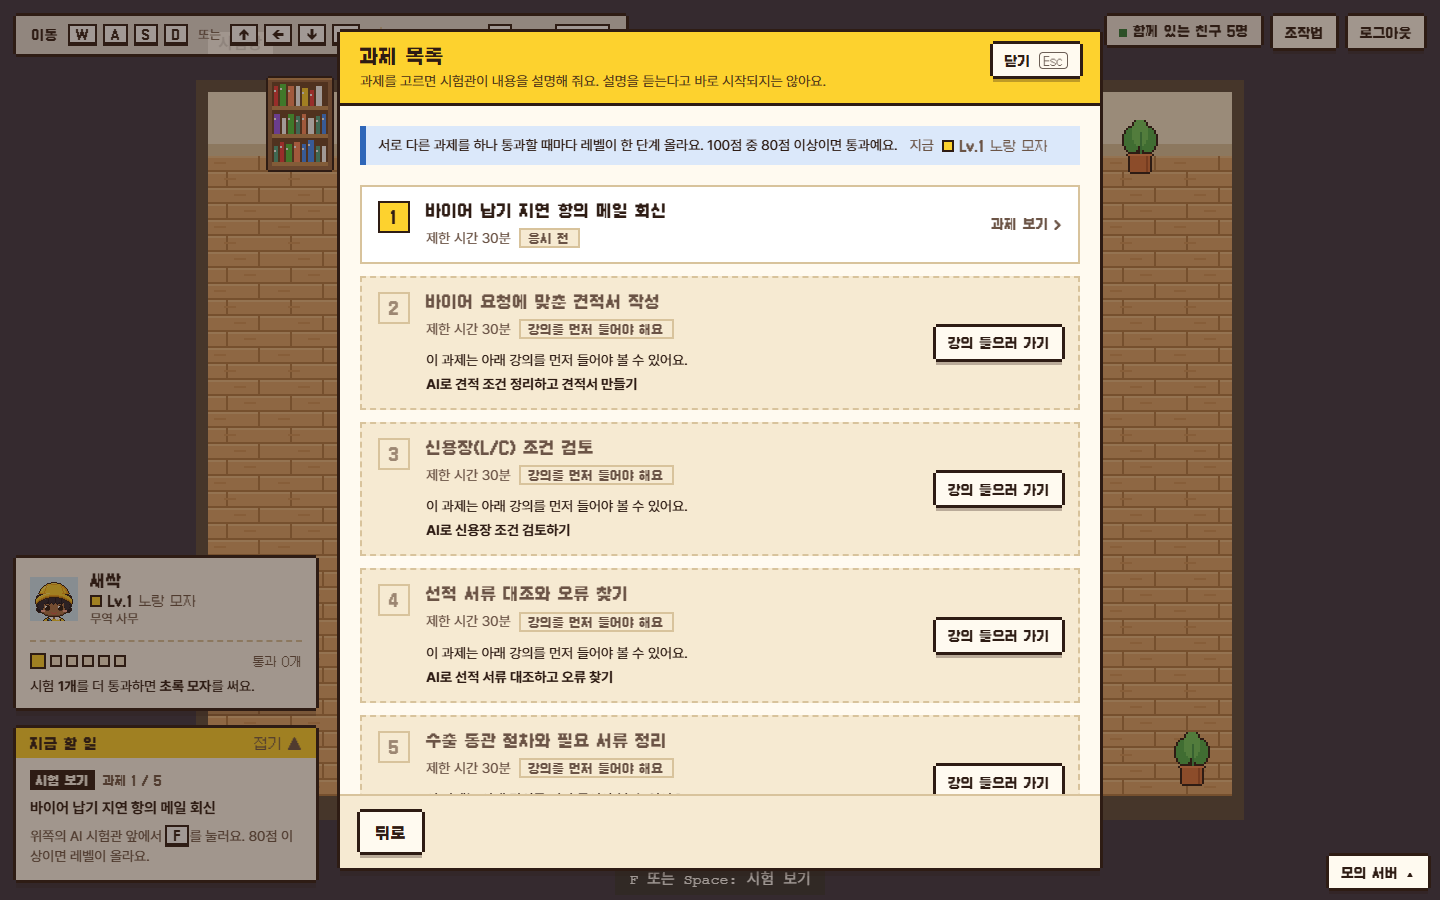
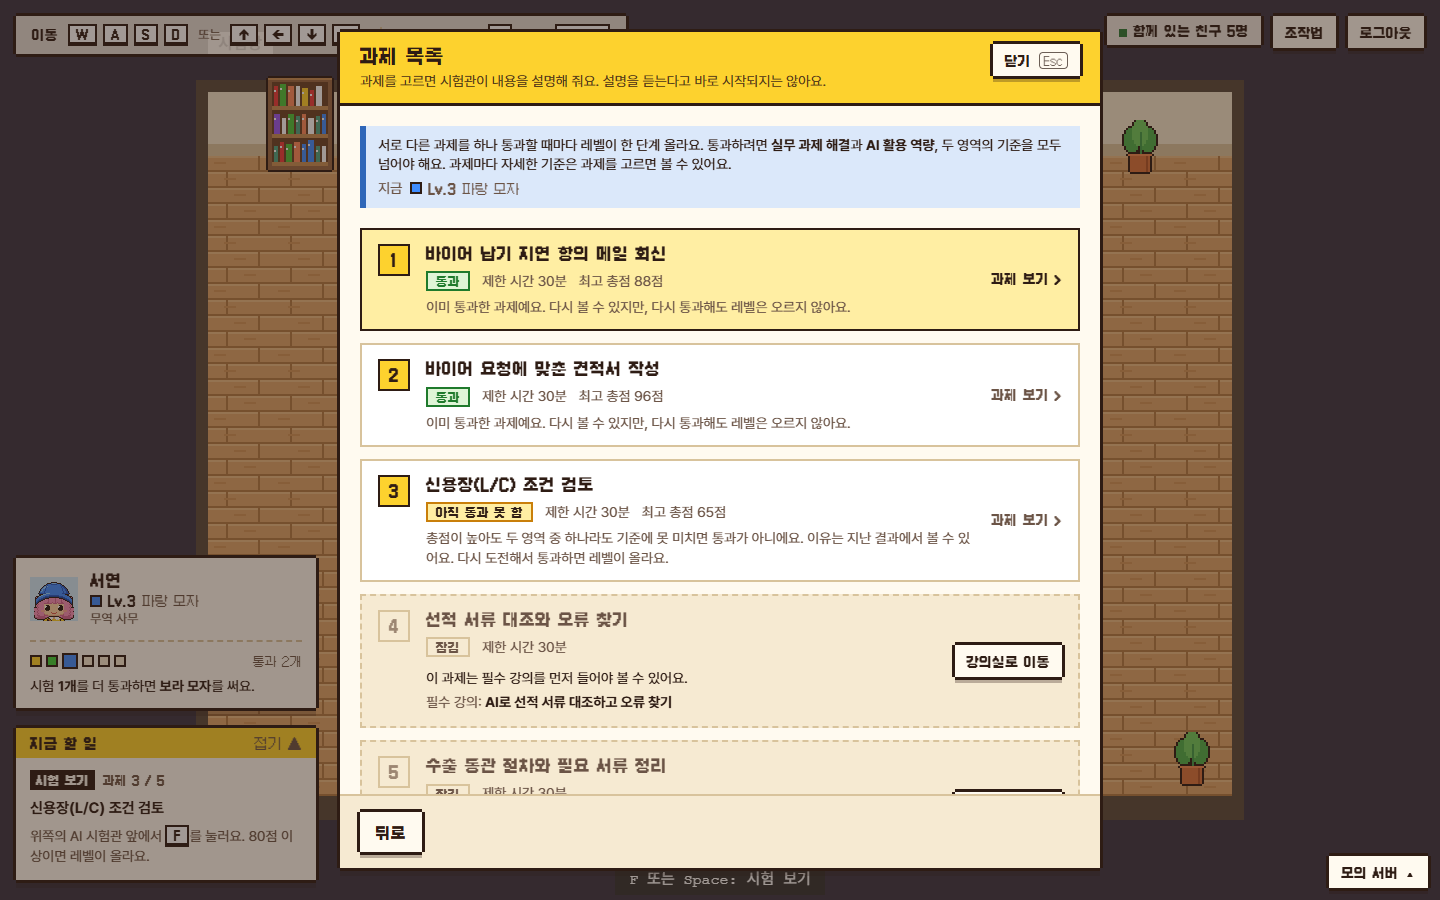
docs: 검증받는 쪽 작업의 판단, 검증 결과, 새 명세와 어긋난 곳 정리

diff --git a/docs/direction/index.html b/docs/direction/index.html
@@ -75,8 +75,8 @@ svg text { font-family: var(--pixel); }
     <p class="lede">픽셀 키트를 화면과 캐릭터에 입히고, 백엔드가 준비되기 전에도 한 바퀴가 돌도록 모의 서버를 붙였습니다. PoC(방향을 확인하려고 작게 만든 시제품)로 방향을 확인받은 뒤, 팀원이 만든 실제 맵 위로 옮겨 완성했습니다. 이 문서는 만들어진 것과 남은 일을 한곳에 정리한 것입니다.</p>
     <ul class="status">
       <li><b>가입부터 레벨업까지</b>실제 맵에서 한 바퀴가 동작</li>
-      <li><b>통과 93 · 실패 0</b>모의 서버 흐름 확인 스크립트</li>
-      <li><b>통과 17 · 실패 0</b>단위 테스트</li>
+      <li><b>통과 119 · 실패 0</b>모의 서버 흐름 확인 스크립트</li>
+      <li><b>통과 181 · 실패 0</b>단위 테스트</li>
       <li><b>빌드 통과</b>타입 오류 0건</li>
     </ul>
     <nav>
@@ -147,12 +147,12 @@ svg text { font-family: var(--pixel); }
       <figcaption><span class="step">9</span><b>시험관에게 말 걸기.</b> 풀던 시험이 있으면 이 화면 대신 "이어 풀기 / 포기하기"가, 나가 있는 동안 자동 제출된 시험이 있으면 "결과 보기"가 먼저 나옵니다.</figcaption>
     </figure>
     <figure>
-      <img src="shots/10-task-list.png" alt="과제 목록. 첫 과제만 고를 수 있고 나머지는 강의를 먼저 들어야 한다는 안내와 강의 들으러 가기 버튼이 있다">
-      <figcaption><span class="step">10</span><b>과제 목록.</b> 막힌 과제는 이유와 함께 그 강의로 바로 가는 버튼을 줍니다. 막다른 길을 만들지 않습니다.</figcaption>
+      <img src="shots/10-task-list.png" alt="과제 목록. 통과한 과제, 아직 통과하지 못한 과제, 잠긴 과제가 꼬리표와 최고 총점과 함께 나열돼 있고, 잠긴 과제에는 강의실로 이동 버튼이 있다">
+      <figcaption><span class="step">10</span><b>과제 목록.</b> 통과 여부는 총점이 아니라 두 영역의 기준으로 정해지므로 꼬리표와 최고 총점을 따로 보여 줍니다. 잠긴 과제는 필수 강의와 "강의실로 이동" 버튼을 줍니다. 막다른 길을 만들지 않습니다.</figcaption>
     </figure>
     <figure class="wide">
-      <img src="shots/11-task-brief.png" alt="과제 안내 창. 상황, 해야 할 일, 제공 자료, 시작 전에 알아 둘 것, 평가 항목 네 개가 있다">
-      <figcaption><span class="step">11</span><b>과제 안내.</b> 시작하면 시간이 바로 흐르고, 나가도 흐르고, 대화와 답안 수정이 기록돼 평가에 쓰인다는 것을 시작 전에 알립니다.</figcaption>
+      <img src="shots/11-task-brief.png" alt="과제 안내 창의 평가 부분. 두 영역을 모두 충족해야 통과라는 통과 기준, 이 과제에서 꼭 지켜야 할 것, 영역별 항목과 배점이 있다">
+      <figcaption><span class="step">11</span><b>과제 안내.</b> 시작 전에 통과 기준을 알립니다. 총점이 높아도 한 영역이 기준에 못 미치면 통과가 아니라는 것, 답변 검증에 최소 점수가 있다는 것, 이 과제에서 꼭 지켜야 할 것입니다. 숫자는 모두 서버의 값입니다. 시간이 바로 흐르고 대화와 답안 수정이 기록된다는 것도 이 창에서 알립니다.</figcaption>
     </figure>
     <figure class="wide">
       <img src="shots/12-exam.png" alt="시험 화면. 화면 전체를 쓰며 왼쪽에 과제와 자료, 가운데에 AI 대화, 오른쪽에 답안이 있고 위쪽에 남은 시간과 제출하기 버튼이 있다">
@@ -163,12 +163,12 @@ svg text { font-family: var(--pixel); }
       <figcaption><span class="step">13</span><b>시간이 얼마 남지 않았을 때.</b> 5분과 1분에서 타이머의 색과 문구가 함께 바뀝니다. 0이 되면 지금 답안으로 자동 제출합니다. 잠시 나갔다 와도 답안과 대화가 그대로 돌아옵니다.</figcaption>
     </figure>
     <figure>
-      <img src="shots/14-result.png" alt="시험 결과 창. 통과 점수, 시험관의 총평, 레벨이 올랐다는 예고, 항목별 점수 네 개와 피드백">
-      <figcaption><span class="step">14</span><b>통과한 결과.</b> 총점과 통과 기준선, 시험관의 총평, 네 항목의 점수와 피드백. 맵으로 돌아가면 모자가 바뀐다고 예고합니다.</figcaption>
+      <img src="shots/14-result.png" alt="통과한 시험 결과 창. 통과 표시, 시험관의 총평, 레벨이 올랐다는 예고, 두 영역의 점수와 충족 여부">
+      <figcaption><span class="step">14</span><b>통과한 결과.</b> 통과 여부를 가장 먼저 보여 주고, 두 영역의 점수와 충족 여부, 꼭 지켜야 할 것의 판정, 항목별 피드백이 이어집니다. 맵으로 돌아가면 모자가 바뀐다고 예고합니다.</figcaption>
     </figure>
     <figure>
-      <img src="shots/15-result-fail.png" alt="미달한 시험 결과 창. 65점 미달, 통과까지 15점 남았다는 문장, 가장 보완할 항목 표시">
-      <figcaption><span class="step">15</span><b>미달한 결과.</b> 통과까지 몇 점 남았는지, 어느 항목을 가장 보완해야 하는지, 근거가 된 대화가 어느 장면인지, 다시 볼 강의가 무엇인지로 이어집니다.</figcaption>
+      <img src="shots/15-result-fail.png" alt="통과하지 못한 시험 결과 창. 총점은 91점이지만 답변 검증이 최소 점수보다 1점 모자라 통과하지 못했다는 이유가 총점보다 앞에 나온다">
+      <figcaption><span class="step">15</span><b>통과하지 못한 결과.</b> 총점보다 이유를 앞세웁니다. 그림은 총점이 91점인데 답변 검증이 최소 점수에 1점 모자란 경우입니다. 무엇이 부족했는지, 받은 점수와 최소 점수, 다음에 무엇을 하면 되는지를 한 줄씩 적고, 근거가 된 대화와 다시 볼 강의로 이어집니다.</figcaption>
     </figure>
     <figure>
       <img src="shots/16-levelup.png" alt="레벨업 연출. 화면이 어두워지고 가운데에 초록 모자로 바뀐 내 캐릭터가 크게 보인다">

diff --git a/docs/api-module.md b/docs/api-module.md
@@ -40,15 +40,15 @@ src/api/
 
 ## 분야별 파일에 지금 들어 있는 것
 
-화면이 이미 만들어져 있어서 명세의 API 함수 23개는 모두 들어 있다. 조회의 이름표와 훅은 **여러 화면이 함께 보는 값**에만 만들어 두었고, 나머지는 비워 두었다. 그 분야를 맡은 사람이 필요할 때 더한다.
+화면이 이미 만들어져 있어서 명세의 API 함수 23개는 모두 들어 있다. 조회의 이름표와 훅은 분야를 맡은 사람이 채운다. 검증받는 쪽(과제, 응시)은 채워져 있고, 배우는 쪽은 **여러 화면이 함께 보는 값**에만 만들어져 있다.
 
 | 파일 | API 함수 | 조회와 훅 |
 |---|---|---|
 | `auth.ts` | 가입, 로그인, 로그아웃 | 없음 |
 | `users.ts` | 직무 목록, 내 정보, 첫 입장 안내 완료 | 내 정보 조회 (`userQueries.me`) |
 | `lectures.ts` | 대시보드, 상세, 시청 기록 보고 | 대시보드 조회 (`useLectures`), 수강률이 바뀌었다고 알리기 (`invalidateLectureProgress`) |
-| `tasks.ts` | 목록, 안내 | 목록 조회 (`useTasks`) |
-| `attempts.ts` | 시작, 현재 응시, 목록, 결과, 포기, AI 질문, 대화 기록, 답안 저장, 행동 기록, 제출, 재채점 | 없음 |
+| `tasks.ts` | 목록, 안내 | 목록 조회 (`useTasks`), 안내 조회 (`useTask`) |
+| `attempts.ts` | 시작, 현재 응시, 목록, 결과, 포기, AI 질문, 대화 기록, 답안 저장, 행동 기록, 제출, 재채점 | 현재 응시 (`useCurrentAttempt`), 지난 결과 (`useAttemptHistory`, 쪽을 이어 붙인다), 응시 결과 (`useAttemptResult`, 채점 중이면 2초마다 다시 묻는다), 대화 기록 (`useAttemptMessages`). 변경: 시작, 포기, AI 질문, 제출, 재채점. 답안 저장과 행동 기록은 낡게 하는 조회가 없어 API 함수를 직접 부른다 |
 
 토큰 재발급(`POST /auth/refresh`)은 공통 부분인 `client.ts`가 맡는다. 모든 요청이 기대는 동작이라 분야별 파일에 두지 않았다.
 
@@ -160,7 +160,16 @@ export function useMarkNoticeRead() {
 }
 ```
 
-다른 분야의 조회까지 낡는 경우에는 그 분야의 이름표를 가져다 쓴다. 지금 있는 예가 `lectures.ts`의 `invalidateLectureProgress`다. 강의 수강률이 바뀌면 과제의 "응시 가능" 여부도 낡기 때문에 `taskKeys.all`까지 표시한다.
+다른 분야의 조회까지 낡는 경우에는 그 분야의 이름표를 가져다 쓴다. 지금 있는 예가 둘이다. `lectures.ts`의 `invalidateLectureProgress`는 강의 수강률이 바뀌면 과제의 "응시 가능" 여부도 낡기 때문에 `taskKeys.all`까지 표시한다. `attempts.ts`의 `invalidateAttemptChange`는 응시가 바뀌면 과제 목록(통과 여부)과 내 정보(레벨)까지 표시한다.
+
+### 조회로 만들 때 조심할 응답 두 가지
+
+검증받는 쪽을 채우면서 겪은 것이다. 같은 모양의 API를 만나면 같은 방식으로 다룬다.
+
+| 응답 | 왜 조심하는가 | 어떻게 다루는가 |
+|---|---|---|
+| 부를 때마다 서버의 상태가 바뀌는 조회 (`GET /attempts/current`는 부를 때 자동 제출을 처리한다) | 저장해 둔 값을 보여 주면 이미 제출된 시험을 "이어 풀기"로 보여 줄 수 있다 | `NEVER_CACHE`를 붙인다 |
+| 처음 조회할 때만 다른 값을 주는 조회 (`GET /attempts/{id}`의 `first_view`는 채점이 끝난 결과를 처음 볼 때만 `true`다) | 조회 저장소가 다시 불러오면 `false`로 덮인다. 화면이 떼었다 붙을 때 요청을 끊으면 서버는 이미 "봤음"으로 기록해 `true`를 영영 받지 못한다 | 응답을 받는 순간 필요한 사실(레벨이 올랐다)을 따로 기억한다. 이 조회에는 요청을 끊는 `signal`을 넘기지 않는다 |
 
 ## 화면에서 쓰는 법
 
@@ -230,5 +239,6 @@ export const http = createClient({
 | `core/createClient.test.ts` | 주소 만들기, 다시 시도(조회만), 시간 제한, 끊기, 토큰 재발급, 훅 |
 | `client.test.ts` | 이 서비스의 규칙: 동시에 만료를 받아도 재발급은 한 번, 로그인 실패는 재발급하지 않음 |
 | `domains/lectures.test.ts` | 강의 수강률이 바뀌면 어떤 조회가 낡는가 |
+| `domains/tasks.test.ts`, `domains/attempts.test.ts` | 응시가 바뀌면 어떤 조회가 낡는가, 채점 중일 때만 다시 묻기, 채점이 끝난 결과를 처음 받았을 때 한 번만 알리기 |
 
 분야별 파일에 "무엇이 낡는가"를 더하면 `lectures.test.ts`처럼 테스트를 함께 둔다.

diff --git a/docs/open-questions.md b/docs/open-questions.md
@@ -51,3 +51,28 @@
 | 24 | 시청 구간을 소수 초로 보내도 되는가 | 화면은 정수 초로 반올림해 보낸다 |
 | 25 | 탭을 닫는 순간의 마지막 답안과 시청 구간을 보낼 방법이 없다. 답안은 최대 3초, 시청 구간은 최대 10초 분량이 빠질 수 있다 | 빠지는 것을 받아들였다. 필요하면 브라우저가 닫히면서도 보내 주는 전송 방식(`keepalive`)을 검토한다 |
 | 26 | 응시가 이미 지워진 경우(다른 탭에서 포기)의 화면 동작이 명세에 없다 | 화면은 "더 이어 풀 수 없어요"라고 알리고 닫는다 |
+| 27 | 과제 안내와 시험 시작의 응답에 영역의 이름("실무 과제 해결", "AI 활용 역량")이 없다. 결과의 응답에만 있다 | 화면이 명세 6절의 설명을 이름으로 쓴다 |
+| 28 | 예전 기준 응시의 항목에 소속 영역(`dimension`)이 오는가 | 모의 서버는 넣는다. 화면은 예전 기준에서 영역을 쓰지 않는다 |
+| 29 | 최고 점수(`best_score`)에 예전 기준의 응시가 들어가는가 | 모의 서버는 넣는다 |
+| 30 | 답변 검증 점수가 양수인데 근거가 대화가 아니라 답안 수정 이력이면, 결과의 근거 대화 번호는 비어 있다 | 화면은 근거 대화가 없으면 "근거가 된 대화 보기"를 보여 주지 않는다. 피드백 문장에 수정 이력이 근거라고 적힌다 |
+
+## 2026-11-20의 새 명세와 어긋난 채로 남은 곳
+
+API 명세와 ERD가 2026-11-20에 새 판으로 바뀌었다. 검증받는 쪽(과제, 응시, 채점)은 새 판에 맞췄다. 아래는 맞추지 않은 곳이다.
+
+### 배우는 쪽과 공통 (담당: 조가을, 모의 서버는 함께)
+
+| 번호 | 새 명세 | 지금 코드와 모의 서버 |
+|---|---|---|
+| 31 | 멀티플레이 메시지의 방향이 `yaw`(라디안, 오른쪽 0, 아래 π/2, 위 -π/2)다. 좌표 예시가 `12.5`, `8.25` 같은 작은 소수다 | `dir`(위, 아래, 왼쪽, 오른쪽)을 쓰고 좌표는 맵의 픽셀이다. 좌표의 단위는 백엔드와 확인이 필요하다 |
+| 32 | 강의 상세(`GET /lectures/{id}`)에 연결된 과제 번호(`task_id`)가 온다 | 응답과 타입에 없다. 화면은 과제 목록에서 강의에 연결된 과제를 찾는다 |
+| 33 | 로그아웃하면 같은 로그인 세션의 리프레시 토큰을 모두 폐기한다 | 모의 서버는 그 토큰 하나만 폐기한다 |
+| 34 | 정보 카드와 첫 입장 안내의 "80점 이상이면 통과"는 새 채점 방식과 맞지 않는다 | `src/ui/hud`에 남아 있다. 공통 부품의 주석 한 곳에도 남아 있다 |
+| 35 | 명세는 "강의실"이라고 쓴다 | 맵의 이름표와 시험 쪽 화면은 "강의실", 정보 카드와 강의 창은 "강의장"이다. 3번의 답이 "강의실"로 정해진 셈이다 |
+
+### 두 쪽이 만나는 곳
+
+| 번호 | 새 명세 (10절) | 지금 화면 |
+|---|---|---|
+| 36 | 수강 완료 뒤 "시험장으로 이동"을 누르면 그 강의에 연결된 과제의 안내가 후보로 열린다 | 시험장으로 이동만 한다. 시험관에게 말을 걸면 시험관 메뉴가 열린다 |
+| 37 | 시험장 패널을 열면 진행 중인 응시 → 확인할 결과 → 선택한 과제 안내 또는 과제 목록의 순서로 확인한다 | 진행 중인 응시 → 확인할 결과 → 시험관 메뉴(새 시험 보기, 지난 결과 보기)의 순서다. 메뉴를 한 번 더 거친다 |
